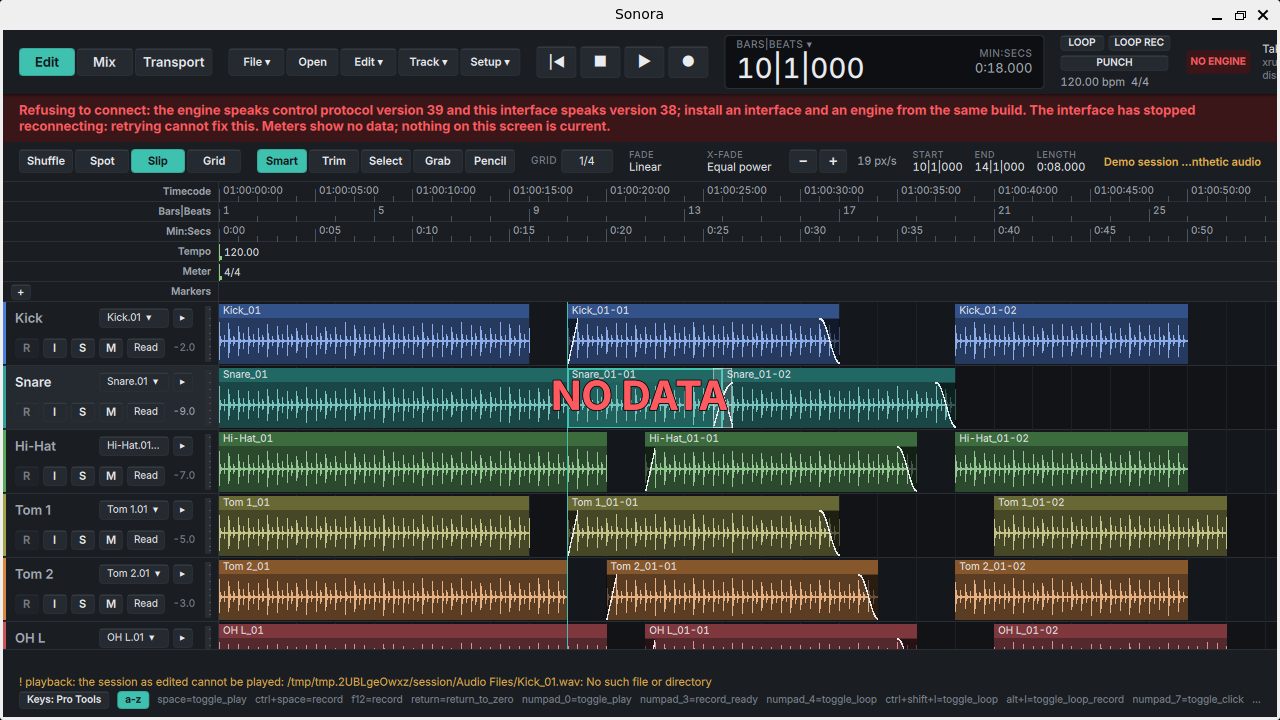
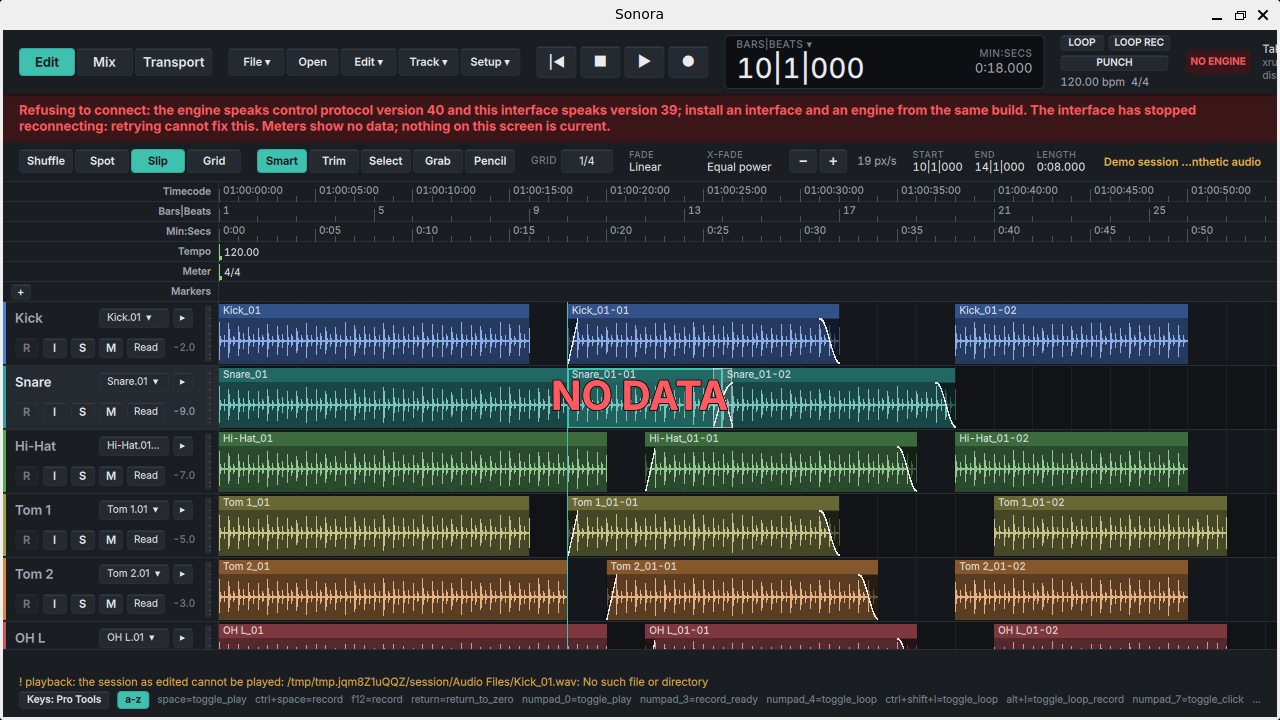
Trim's pan release puts the static back; refusal screenshots at protocol 39 (#290 review B1 B2)
B2: in Trim the audio thread returns the pan as in Touch, so
PlaybackController::touch() now restores the document's static pan on a
release in Trim as it does in Touch; it glided to the ridden value before
while the writer recorded a return to the static. Regression test
test_a_pan_release_in_trim_puts_the_static_back, failing before the fix.
The fake engine range-checks VolumeTrim as it does Gain.

B1: sonora-ui-edit-refusal and -refusal-reconnect regenerated with
tools/build-ui.sh --screenshot: they now read engine 40, interface 39.

Changed region(s): [[0.3438, 0.1222, 0.9375, 0.1833], [0.2812, 0.9167, 0.5625, 0.9778]]

diff --git a/engine/control/tests/test_track_structure.cpp b/engine/control/tests/test_track_structure.cpp
@@ -588,6 +588,35 @@ int test_a_moving_plan_writes_only_the_held_track() {
     return 0;
 }
 
+// ADR-0027 §8 slice 5 (#290 review B2): in Trim the pan behaves as in
+// Touch, so a pan release while rolling puts the document's static pan
+// back in the atomic, as Touch's does; otherwise the audio would glide to
+// the ridden value while the writer records a return to the static.
+int test_a_pan_release_in_trim_puts_the_static_back() {
+    for (const AutomationMode mode : {AutomationMode::Touch, AutomationMode::Trim}) {
+        auto session = make_session(1);
+        Session& s = *session;
+        History h(new_session(SessionSettings{}));
+        AddTrack a = track_op(100, "A", 0.0f, 0);
+        a.mix.automation = mode;
+        CHECK_APPLY(h, a);
+        PlaybackController ctl(s);
+        CHECK(show(ctl, h.current()));
+        CHECK(ctl.settle(2.0));
+        ctl.play();
+        CHECK(ctl.settle(2.0));
+        CHECK(s.transport().state() == TransportState::Rolling);
+        Out o;
+        block(s, o);
+        ctl.touch(h.current(), 0, sonora::kAutoPan, true);
+        s.tracks()[0]->set_pan(1.0f);   // the ParameterChange moves
+        block(s, o);
+        ctl.touch(h.current(), 0, sonora::kAutoPan, false);
+        CHECK(s.tracks()[0]->pan() == h.current().mix.find(a.track)->pan);
+    }
+    return 0;
+}
+
 }  // namespace
 
 int main() {
@@ -598,6 +627,7 @@ int main() {
     if (test_a_touch_follows_its_track() != 0) return 1;
     if (test_a_release_while_moving_reaches_its_track() != 0) return 1;
     if (test_a_latch_follows_its_track() != 0) return 1;
+    if (test_a_pan_release_in_trim_puts_the_static_back() != 0) return 1;
     if (test_a_moving_plan_writes_only_the_held_track() != 0) return 1;
     if (test_a_plan_back_while_adopting_keeps_each_mix() != 0) return 1;
     std::printf("test_track_structure: ok\n");

diff --git a/engine/control/src/playback_controller.cpp b/engine/control/src/playback_controller.cpp
@@ -278,9 +278,12 @@ void PlaybackController::touch(const model::Snapshot& snapshot, std::size_t row,
     // and the audio thread glides to it from what it last played. Stopped,
     // a ride is the static, which the client saves.
     const model::TrackMix* m = snapshot.mix.find(tracks[row]->id);
-    // The trim fader has no static value to put back.
-    if (held || param == kAutoTrim || m == nullptr ||
-        m->automation != model::AutomationMode::Touch ||
+    // The trim fader has no static value to put back. In Trim the pan
+    // returns as in Touch (session.cpp), so its static goes back too; the
+    // volume is not held there, so there is no volume release to restore.
+    const bool returns = m != nullptr && (m->automation == model::AutomationMode::Touch ||
+                                          m->automation == model::AutomationMode::Trim);
+    if (held || param == kAutoTrim || !returns ||
         session_.transport().state() == TransportState::Stopped) {
         return;
     }

diff --git a/contracts/api/testing/src/fake_engine.cpp b/contracts/api/testing/src/fake_engine.cpp
@@ -1394,7 +1394,8 @@ void FakeEngine::handle(const std::string& bytes) {
                   "there is no track " + std::to_string(c.track + 1));
         } else if (c.param == ParamId::Pan && !(c.value >= -1.0f && c.value <= 1.0f)) {
             reply(c.seq, DispatchResult::Failed, "pan must be from -1 to 1");
-        } else if (c.param == ParamId::Gain && !(c.value >= 0.0f && c.value <= 4.0f)) {
+        } else if ((c.param == ParamId::Gain || c.param == ParamId::VolumeTrim) &&
+                   !(c.value >= 0.0f && c.value <= 4.0f)) {
             reply(c.seq, DispatchResult::Failed, "gain must be from 0 to 4 (linear)");
         } else {
             if (c.param == ParamId::Gain) gain_[c.track] = c.value;
